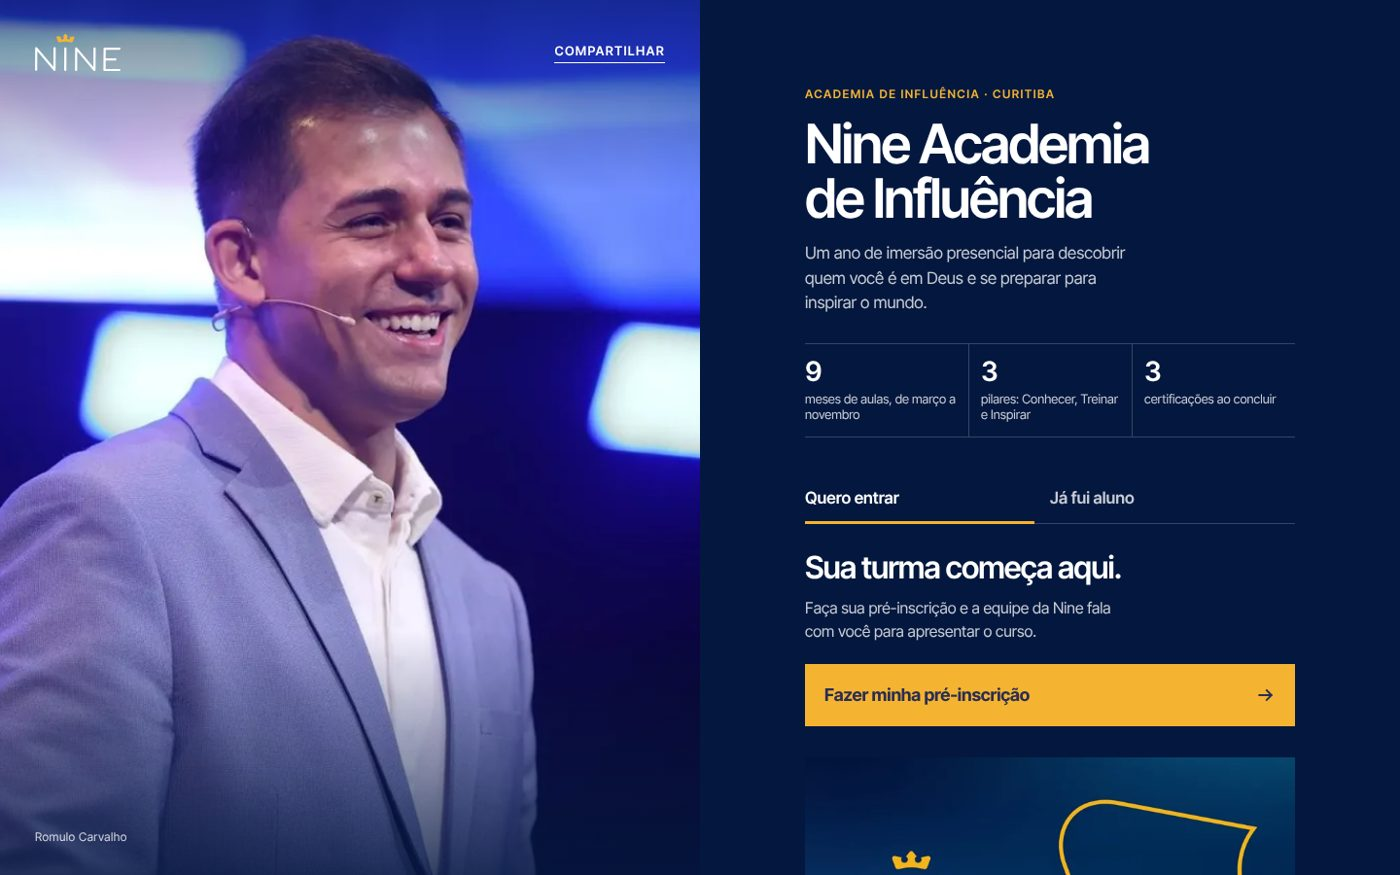
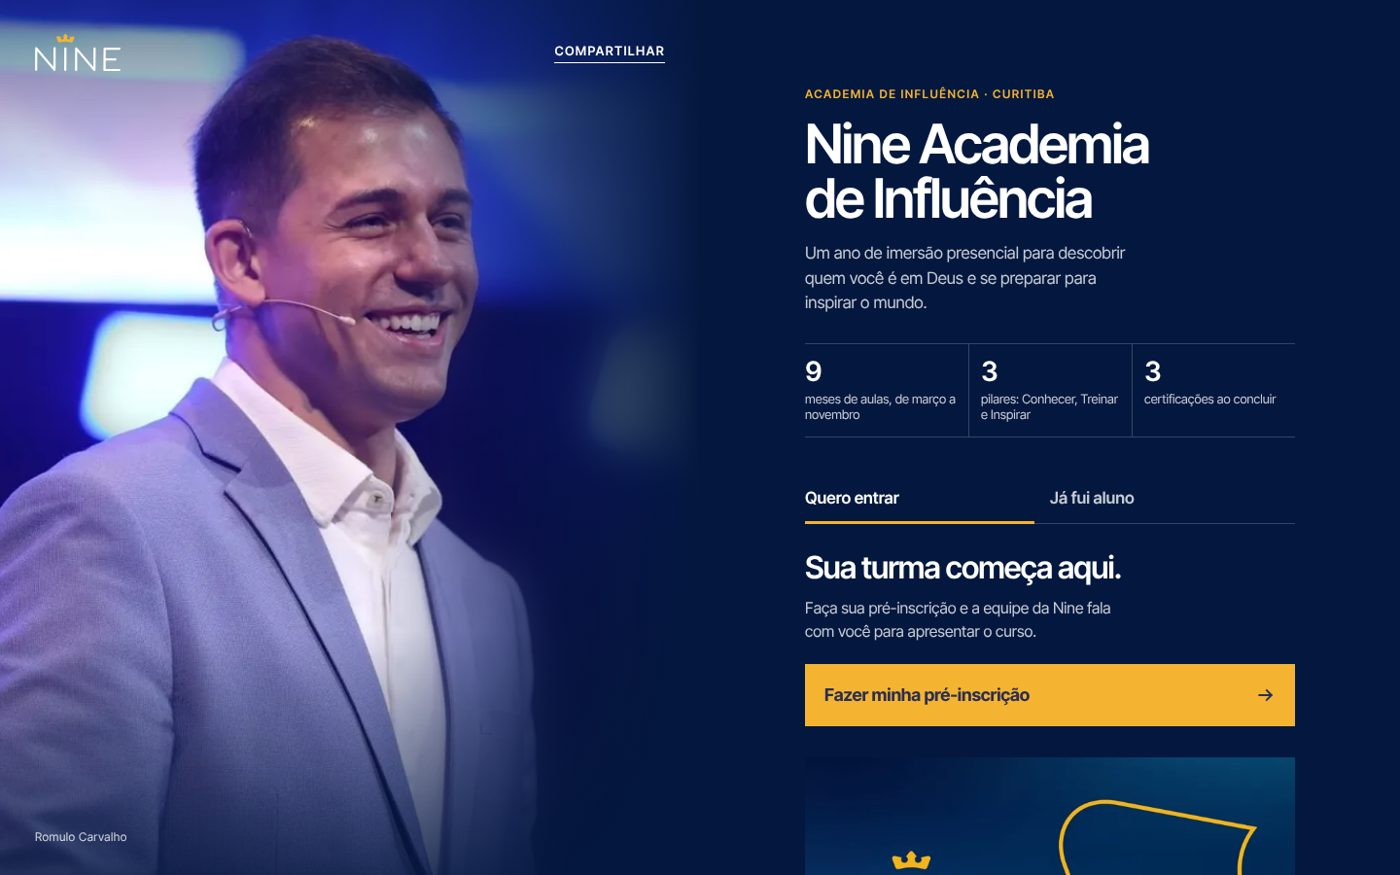
Link na bio: foto se dissolve no azul com desfoque, sem linha de corte
Claude-Session: https://claude.ai/code/session_01QC8thzhhTjuEXnrSpb546J

Changed region(s): [[0.2764, 0.0, 0.5221, 0.648], [0.2764, 0.4937, 0.3993, 0.9566]]

diff --git a/links/index.html b/links/index.html
@@ -41,6 +41,9 @@ h1, h2 { font-weight: 600; letter-spacing: -0.035em; line-height: 1; text-wrap: 
 .foto { position: relative; height: min(62svh, 560px); min-height: 400px; overflow: hidden; }
 .foto img { position: absolute; inset: 0; width: 100%; height: 100%; object-fit: cover; object-position: 55% 22%; animation: aproxima 14s ease-out both; }
 .foto::after { content: ""; position: absolute; inset: 0; background: linear-gradient(180deg, rgba(4, 24, 63, .6) 0%, rgba(4, 24, 63, 0) 24%, rgba(4, 24, 63, 0) 60%, var(--fundo) 100%); }
+/* a foto se dissolve no azul da página: desfoque crescente + degradê, sem linha de corte */
+.foto::before { content: ""; position: absolute; z-index: 1; inset: auto 0 0; height: 42%; -webkit-backdrop-filter: blur(22px); backdrop-filter: blur(22px); -webkit-mask-image: linear-gradient(180deg, transparent, #000 75%); mask-image: linear-gradient(180deg, transparent, #000 75%); }
+.foto::after { z-index: 1; }
 @keyframes aproxima { from { transform: scale(1.06); } }
 .foto__topo { position: absolute; z-index: 2; inset: 0 0 auto; display: flex; align-items: center; justify-content: space-between; padding: max(14px, env(safe-area-inset-top)) var(--margem) 0; }
 .logo { display: block; color: #fff; line-height: 0; }
@@ -125,7 +128,8 @@ h2 { font-size: 2rem; letter-spacing: -0.03em; line-height: 1.05; }
   :root { --margem: 48px; }
   body { display: grid; grid-template-columns: minmax(0, 1fr) minmax(0, 1fr); }
   .foto { position: sticky; top: 0; height: 100vh; min-height: 0; }
-  .foto::after { background: linear-gradient(180deg, rgba(4, 24, 63, .55) 0%, rgba(4, 24, 63, 0) 22%, rgba(4, 24, 63, 0) 72%, rgba(4, 24, 63, .8) 100%); }
+  .foto::before { inset: 0 0 0 auto; width: 40%; height: auto; -webkit-mask-image: linear-gradient(90deg, transparent, #000 80%); mask-image: linear-gradient(90deg, transparent, #000 80%); }
+  .foto::after { background: linear-gradient(90deg, rgba(4, 24, 63, 0) 52%, rgba(4, 24, 63, .7) 82%, var(--fundo) 100%), linear-gradient(180deg, rgba(4, 24, 63, .55) 0%, rgba(4, 24, 63, 0) 22%, rgba(4, 24, 63, 0) 72%, rgba(4, 24, 63, .8) 100%); }
   .foto__topo { padding: 32px 36px 0; }
   .foto__legenda { left: 36px; right: auto; bottom: 30px; }
   .conteudo { max-width: 600px; margin: 0; padding: 88px var(--margem) 48px; justify-self: center; }

diff --git a/CLAUDE.md b/CLAUDE.md
@@ -15,7 +15,7 @@ Site de uma página da formação da Nine (antes vivia em `/academia/` no reposi
 
 - `material/Nine-formacao-pendencias-do-site.pdf` (fonte: `material/pendencias-do-site.html`): documento de pendências com a identidade da Nine, para enviar ao cliente. A lista da seção "Pendências" abaixo é a mesma; ao fechar um item, atualize os dois e gere o PDF de novo com o Chromium (`page.pdf`, `preferCSSPageSize`, `printBackground`).
 
-- `links/index.html`: link na bio da Nine (`/links/`, no lugar do Linktree). Página avulsa com CSS e JS próprios embutidos (não passa pelo `build.py`). Visual de página impressa, de propósito: cor chapada, fios finos, índice numerado, botão retangular; **sem cartões arredondados, sombras, vidro ou brilho** (o cliente rejeitou isso como "cara de IA"). Foto do Romulo no palco (`assets/img/links/`) e duas abas: "Quero entrar" e "Já fui aluno" (`/links/#ex-alunos` abre direto no Legacy). Os botões de YouTube e Flickr estão com `hidden` e `href="#"` até a Nine mandar os endereços.
+- `links/index.html`: link na bio da Nine (`/links/`, no lugar do Linktree). Página avulsa com CSS e JS próprios embutidos (não passa pelo `build.py`). Visual de página impressa, de propósito: cor chapada, fios finos, índice numerado, botão retangular; **sem cartões arredondados, sombras, vidro ou brilho** (o cliente rejeitou isso como "cara de IA"). A única suavidade é a transição da foto para o azul: desfoque crescente + degradê (`.foto::before` e `.foto::after`), na base no celular e na lateral direita no computador, como no link na bio da Boop. Foto do Romulo no palco (`assets/img/links/`) e duas abas: "Quero entrar" e "Já fui aluno" (`/links/#ex-alunos` abre direto no Legacy). Os botões de YouTube e Flickr estão com `hidden` e `href="#"` até a Nine mandar os endereços.
 
 - `material/Nine-proposta-site-e-hospedagem.pdf` (fonte: `material/proposta-site-e-hospedagem.html`, imagens em `material/img/`): proposta comercial da Boop com as três formas de seguir (site entregue, site + manutenção Boop e plano completo com painel de edição e link na bio; R$ 299/mês em qualquer uma delas), a recomendação da Vercel e a transferência do projeto.
 
